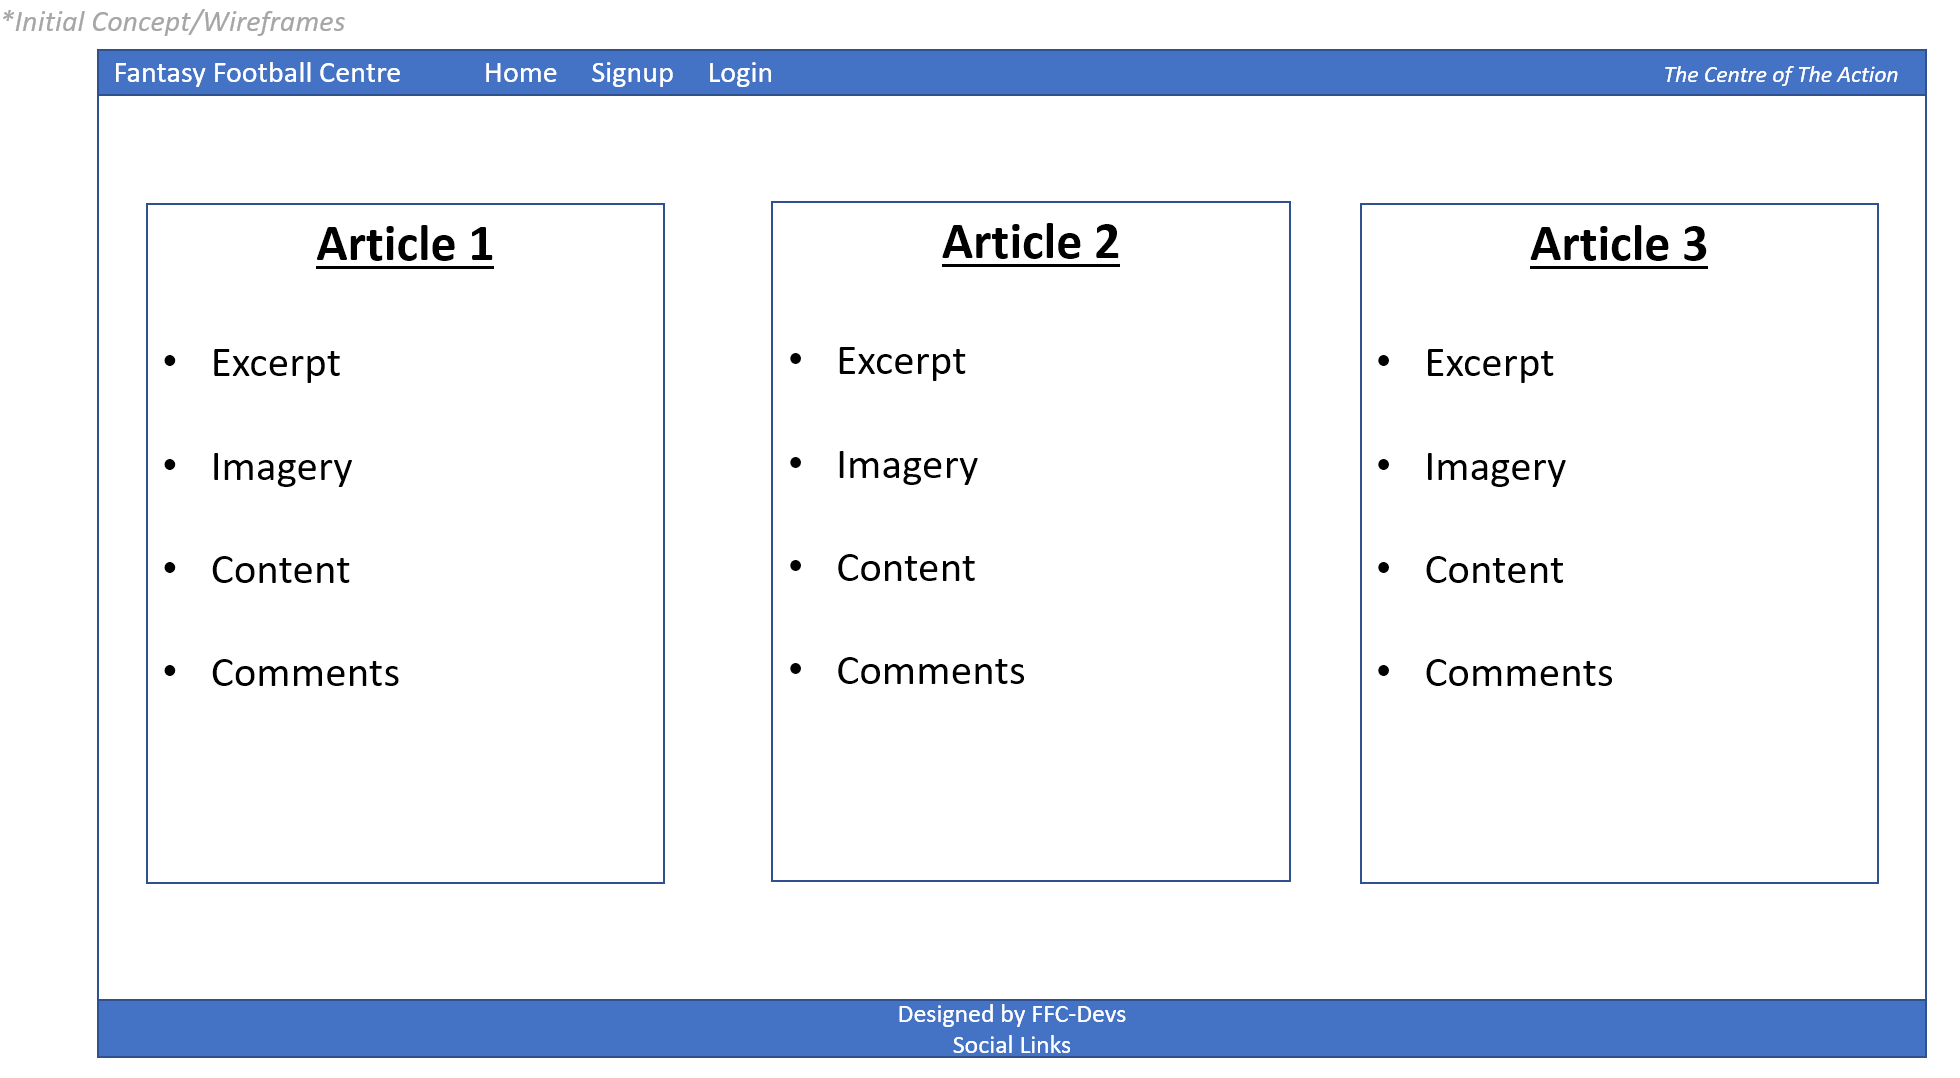
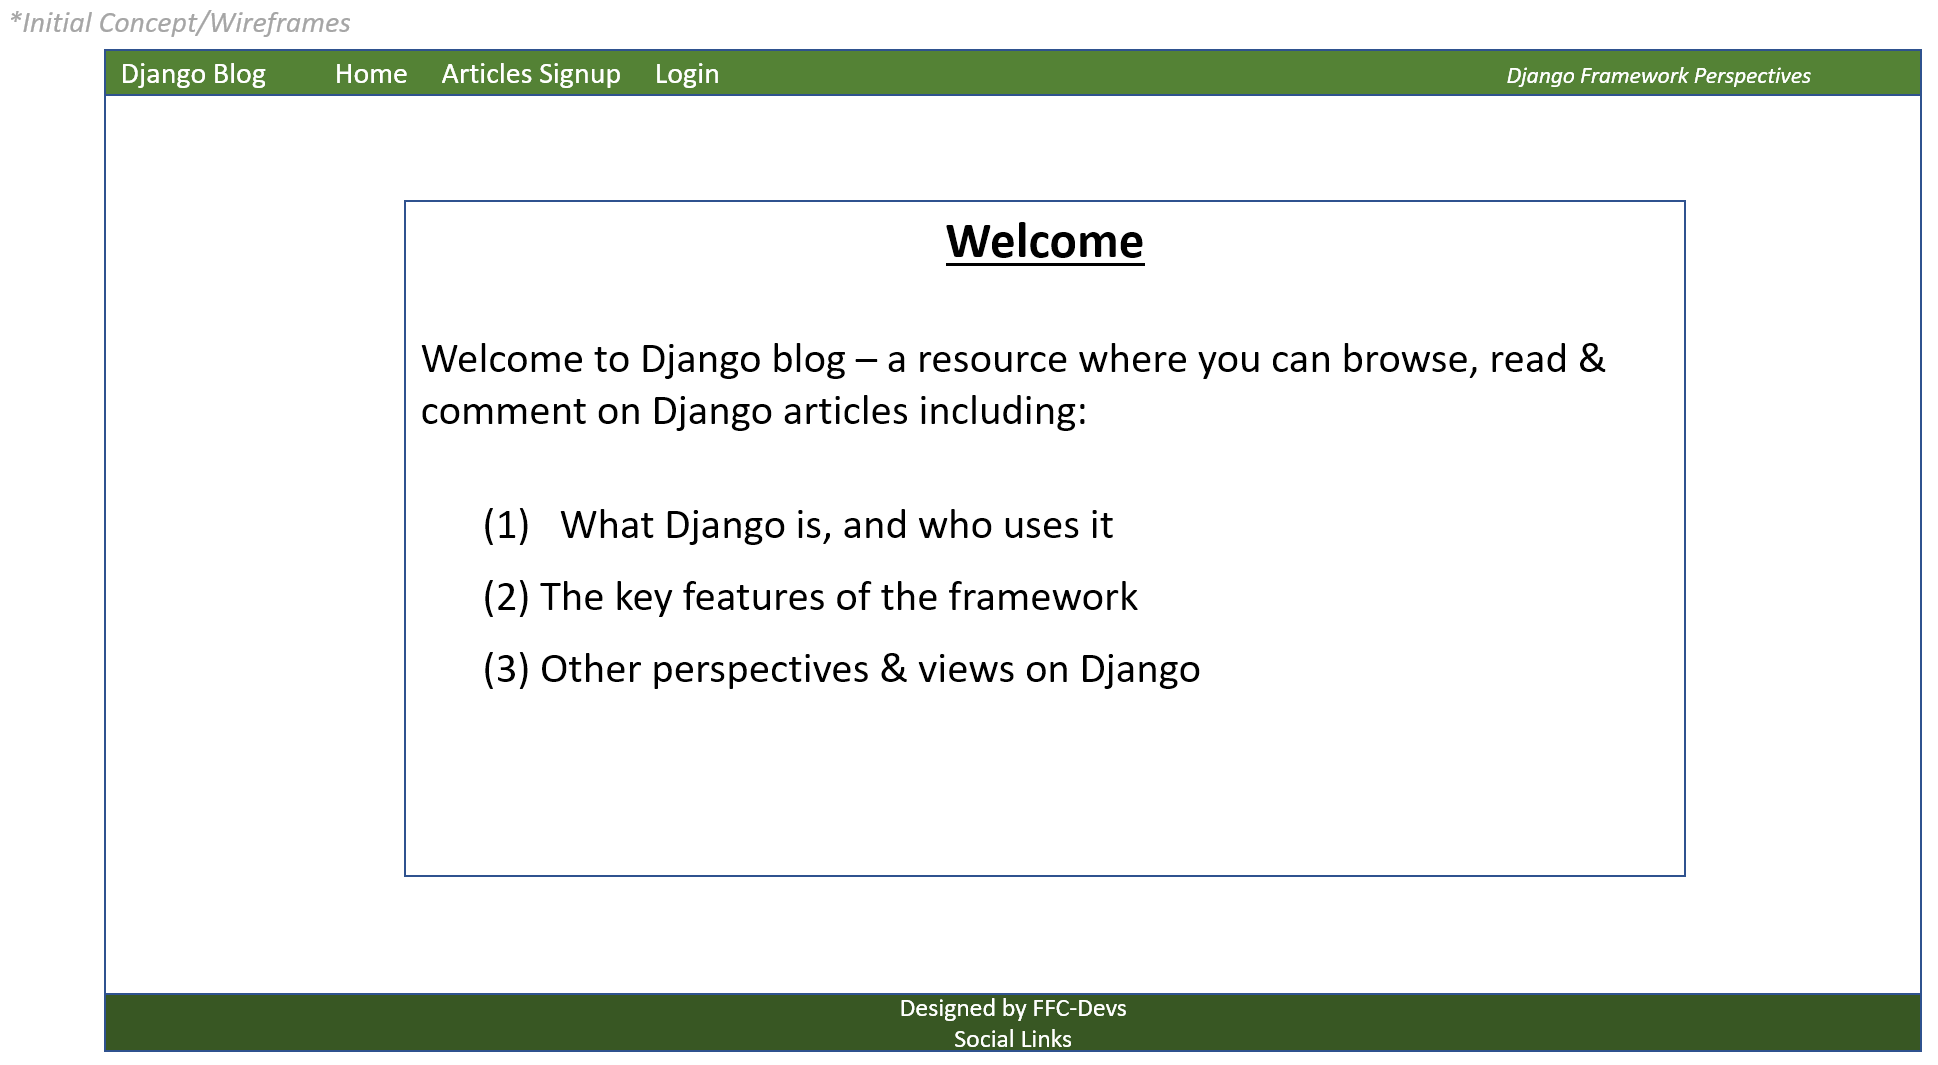
Update UX section of readme with Django Blog materials

diff --git a/USER EXPERIENCE.md b/USER EXPERIENCE.md
@@ -1,7 +1,7 @@
 # UX Planes
 I have designed the site using the five planes of UX approach, each of which is reviewed in detail in the following sections
 ## Strategy
-The strategy for the site is to offer a one-stop shop to users interested in Fantasy Football where they can obtain content in the form of Articles, and can have the ability to post their own comments on the subject matter to engage in discussion within a braoder community of Fantasy Football enthusiasts. 
+The strategy for the site is to offer a resource to users interested in the Django framework where they can obtain content in the form of Articles, and can have the ability to post their own comments on the subject matter to engage in discussion within a braoder community of Django users. 
 
 The strategic aim of the site is to address the following **User Stories**:
 
@@ -10,7 +10,7 @@ The strategic aim of the site is to address the following **User Stories**:
 - View a list of the site's articles so that I can select one to read
 - View an organised list of artciles so that I can select which article I wish to view
 - Open an article so that I can read the full content
-- Add my own comments to articles so that I can join in the discussion on current fantasy football hot topics and issues
+- Add my own comments to articles so that I can join in the discussion on current Django hot topics and issues
 
 ### **As a site administrator I can:**
 - Have full CRUD (Create, Read, Update, Delete) abilities so that I can manage the content of the website
@@ -33,7 +33,7 @@ A view of the Kanban board with the user stories having been brought through "To
 
 ## Structure
 
-The website is structured using the Django Framework functionality, with a home page, a login option, and a signup page. The home page contains the main content of the site, housing the Fantasy Football Articles, together with the comments that have been posted by other users/viewers.
+The website is structured using the Django Framework functionality, with a home page, an articles page, a login option, and a signup page. The home page greets the visitor with a welcome message and links to the the main content of the site, the articles page houses the Django Articles, together with the comments that have been posted by other users/viewers.
 
 The core website data  will be stored in Heroku's PostgreSQL add-on, and website static files and media/images will be stored on the Cloudinary Platform. I have made the decision to store website images on Cloudinary rather than Heroku due to the fact that Heroku is an ephemeral file system, and the Dyno system it utilizes can cause problems in situations where the project has been idle or if it has not been accessed for a certain length of time. Cloudinary is a persistent file store, and will therefore minimise the likelihood of such issues occurring and interrupting or deteriorating the User Experience, ensuring site visitors have less chance of seeing broken image links when browsing the site. In terms of the Cloudinary design choice, it is also less complicated to setup than other persistent file stores (such as Amazon S3 or Microsoft Azure) so will fit well for the scope of this project.
 
@@ -66,7 +66,7 @@ A Procfile is also an integral element of the project structure - as per the ove
 
 ## Database Structure
 
-The site's content will utilise a simple database structure, consisting of two main models - one for the Fantasy Football Articles, and one for the comments that users can add to those articles
+The site's content will utilise a simple database structure, consisting of two main models - one for the Articles about Django topics, and one for the comments that users can add to those articles
 
 The Entity Relationship Diagram for the Articles Table is shown below, with the field names, types, and key status. 
 
@@ -88,7 +88,7 @@ As illustrated in this overview at [postgresqltutorial.com](https://www.postgres
 
 ### - Crispy Forms
 
-The project structure also utilises an applicatino known as [CrispyForms](https://django-crispy-forms.readthedocs.io/en/latest/) to enable controlling the rendering behaviour of the key forms within the application.
+The project structure also utilises an application known as [CrispyForms](https://django-crispy-forms.readthedocs.io/en/latest/) to enable controlling the rendering behaviour of the key forms within the application.
 
 As per this overview article at [merixstudio.com](https://www.merixstudio.com/blog/django-crispy-forms-what-are-they-about/) Django-crispy-forms is an application that helps to manage Django forms and allows adjusting forms' properties (such as method, send button or CSS classes) on the backend without having to re-write them in the template.
 
@@ -137,9 +137,16 @@ The [Lato](https://fonts.google.com/specimen/Lato?query=lato) font is also used 
 
 - Imagery
 
-I am using fantasy football related imagery throughout the Surface layer of the site, to help with promoting a positive User Experience for the target audience. The imagery is primarily consisted of screenshots from various key elements of the Fantasy Football game - including screenshots of the top-performing teams of the week, screenshots of the daily price changes, fixture lists, and other relevant fantasy football imagery. Some examples are shown below:
+I am using fantasy football related imagery throughout the Surface layer of the site, to help with promoting a positive User Experience for the target audience. The imagery is primarily consisted of different Django-related pictures & diagrams. Some examples are shown below:
 
 ![Imagery](readme/imagery.png)
 
 - Color Palette
 
+As part of the surface layer of the website's user experience, I wanted to use a green color palette as part of the site's theme - Bootstrap has a large array of color-schemes & themes to choose from, illustrated in the screenshot below:
+
+![Imagery](readme/bootstrap_color.png)
+
+A deeper dive on the Green color scheme allows many different shades, hues, and opacities depending on the user's needs, for themajority of the site's surface I am using the default shade of green (code #198754 & its' derivations) - shown below:
+
+![Imagery](readme/bootstrap_color_green.png)

diff --git a/README.md b/README.md
@@ -1,5 +1,5 @@
 # Django Blog
-Django Blog is a Django-based web application that will allow users to browse, read, and comment on articles covering the Django Web Development framework:
+Django Blog is a Python & Django based web application that will allow users to browse, read, and comment on articles which cover many aspects and perspectives on the Django Web Development framework:
 
 ![Title](readme/home.png)
 
